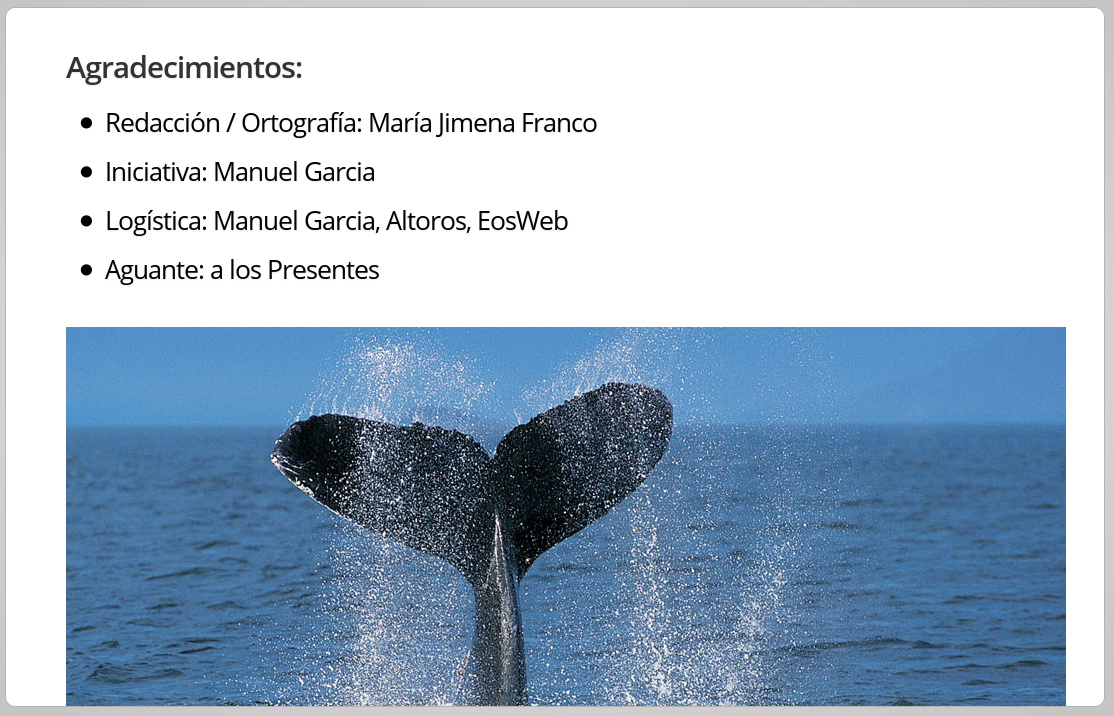
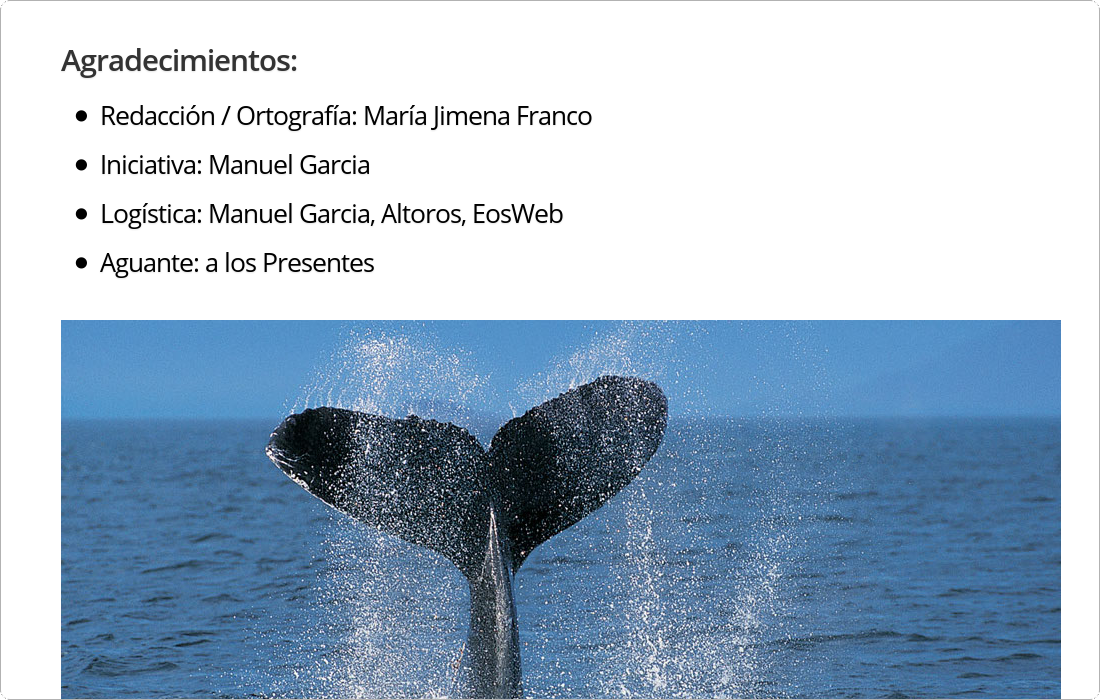
agregando agradecimientos al readme

diff --git a/containers/README.md b/containers/README.md
@@ -104,3 +104,6 @@ Detached (-d) [RUNNING in background]
 * Docker hub
   - push 
   - pull
+
+
+![Agradecimentos](https://github.com/ggerman/pandora/blob/master/containers/thanks.png)
